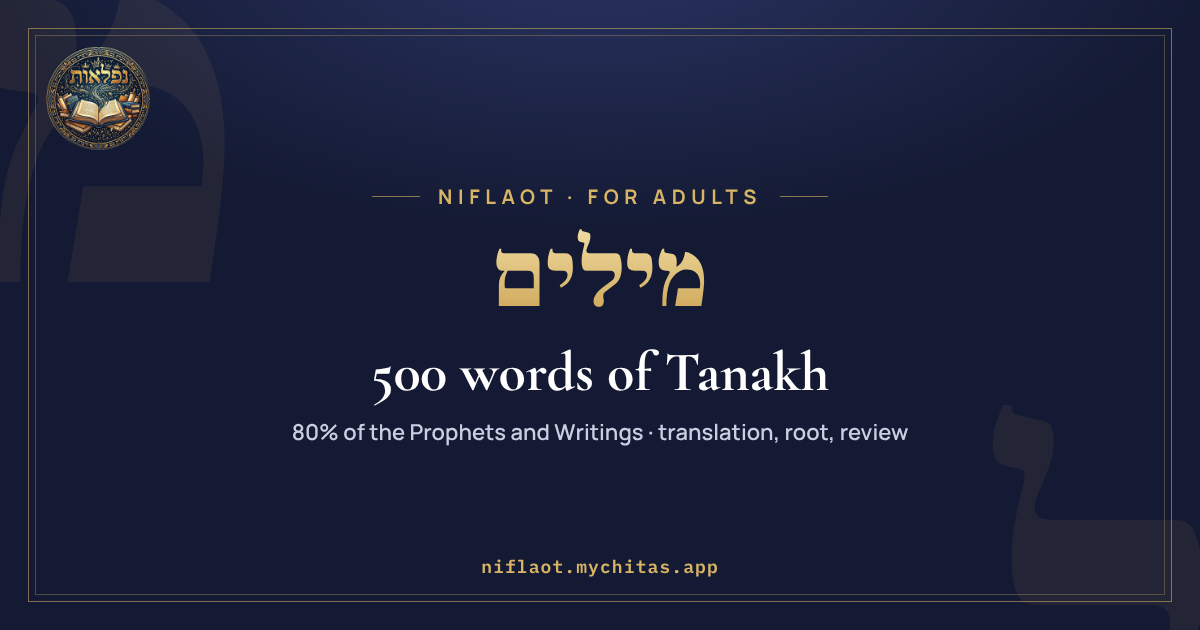
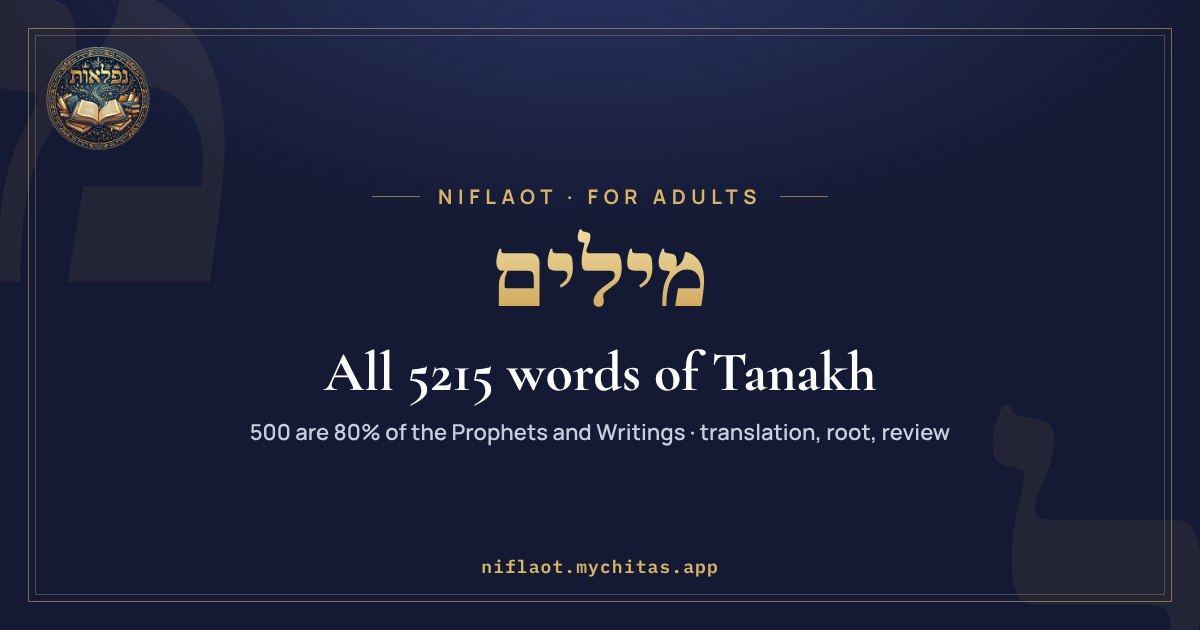
Страница «500 слов Танаха» → «Все 5215 слов Танаха»
Заголовок, описание, вехи (и все 5215 — весь текст, кроме имён), сертификат
«Раввин языка Танаха», все 5215 слов уровнями по 50 на ru/en/de; превью
og/hebrew-words.png; «Мои слова» — тот же текст о частотах.

Claude-Session: https://claude.ai/code/session_01QUacuH4gNi72Be9WgrZfX6

Changed region(s): [[0.2775, 0.5429, 0.74, 0.6333], [0.2158, 0.6635, 0.8017, 0.7238]]

diff --git a/src/i18n/locales/ru.ts b/src/i18n/locales/ru.ts
@@ -1309,7 +1309,7 @@ const ru = {
   'words.learn': "Учу",
   'words.toMine': "Мои слова — повторение и весь словарь",
   'words.mine': "Мои слова",
-  'words.mineLead': "Самые частые слова Пророков и Писаний: 500 слов — это 80 % текста, 1000 — почти 90 %, 1500 — 93 %, 2000 — 95 %, 2500 — 97 %, 3000 — 98 %. Отмечайте «Учу» или «Знаю», а сайт напомнит повторить каждое слово вовремя — через 1, 3, 7, 21 и 60 дней.",
+  'words.mineLead': "Все слова Пророков и Писаний, от самых частых: 500 слов — это 80 % текста, 1000 — почти 90 %, 2000 — 95 %, 3000 — 98 %, а все 5215 — весь текст, кроме имён. Отмечайте «Учу» или «Знаю», а сайт напомнит повторить каждое слово вовремя — через 1, 3, 7, 21 и 60 дней.",
   'words.statKnown': "знаю",
   'words.statLearn': "учу",
   'words.statDue': "повторить сегодня",
@@ -1411,13 +1411,14 @@ const ru = {
   'ai.s.wordsQuiz': "Проверь меня по моим словам",
   'ai.s.wordsRoot': "Какие слова из одного корня я уже знаю?",
   'ai.s.wordsTip': "Как лучше запоминать слова?",
-  'words.seoTitle': "500 слов Танаха — 80 % текста Пророков и Писаний",
-  'words.seoLead': "Самые частые слова Пророков и Писаний в основной форме — с переводом, корнем и тем, сколько раз каждое встречается. Выучите первые 500 — и вы будете узнавать 80 % слов текста.",
+  'words.seoTitle': "Все 5215 слов Танаха: 500 — уже 80 % текста Пророков и Писаний",
+  'words.seoLead': "Все слова Пророков и Писаний в основной форме — 5215 слов, от самых частых к самым редким, с переводом, корнем и тем, сколько раз каждое встречается. Первые 500 дают 80 % текста, а все 5215 — весь текст, кроме имён и названий мест.",
   'words.seoCov': "{n} самых частых слов — {p} % текста",
+  'words.seoAll': "все 5215 слов — весь текст, кроме имён и названий мест",
   'words.seoUpTo': "до {p} % текста",
-  'words.seoHow': "Как учить: по 5 слов в день вместе с отрывком дня Пророков и Писаний. Отмечайте «Учу» или «Знаю», а сайт предложит повторить каждое слово вовремя — через 1, 3, 7, 21 и 60 дней. За 100, 300, 500, 1000, 1500, 2000, 2500 и 3000 слов, подтверждённых повторением, Академия Нифлаот выдаёт сертификат. Бесплатно.",
+  'words.seoHow': "Как учить: по 5 слов в день вместе с отрывком дня Пророков и Писаний. Отмечайте «Учу» или «Знаю», а сайт предложит повторить каждое слово вовремя — через 1, 3, 7, 21 и 60 дней. За 100, 300, 500, 1000, 1500, 2000, 2500 и 3000 слов, подтверждённых повторением, Академия Нифлаот выдаёт сертификат, а за все 5215 — сертификат «Раввин языка Танаха». Бесплатно.",
   'words.seoStart': "Начать учить слова",
-  'words.seoShort': "500 слов Танаха",
+  'words.seoShort': "Все слова Танаха",
   'words.seoColWord': "Слово",
   'words.seoColTr': "Перевод",
   'words.seoColCount': "Сколько раз",

diff --git a/src/i18n/locales/de.ts b/src/i18n/locales/de.ts
@@ -1288,7 +1288,7 @@ const de: Messages = {
   'words.learn': "Lerne ich",
   'words.toMine': "Meine Wörter — Wiederholen und alle Wörter",
   'words.mine': "Meine Wörter",
-  'words.mineLead': "Die häufigsten Wörter der Propheten und Schriften: 500 Wörter sind 80 % des Textes, 1000 fast 90 %, 1500 sind 93 %, 2000 sind 95 %, 2500 sind 97 %, 3000 sind 98 %. Markiere „Lerne ich“ oder „Kenne ich“, und die Seite erinnert dich, jedes Wort zur richtigen Zeit zu wiederholen — nach 1, 3, 7, 21 und 60 Tagen.",
+  'words.mineLead': "Alle Wörter der Propheten und Schriften, die häufigsten zuerst: 500 Wörter sind 80 % des Textes, 1000 fast 90 %, 2000 sind 95 %, 3000 sind 98 %, alle 5215 der ganze Text außer Namen. Markiere „Lerne ich“ oder „Kenne ich“, und die Seite erinnert dich, jedes Wort zur richtigen Zeit zu wiederholen — nach 1, 3, 7, 21 und 60 Tagen.",
   'words.statKnown': "kenne ich",
   'words.statLearn': "lerne ich",
   'words.statDue': "heute wiederholen",
@@ -1390,13 +1390,14 @@ const de: Messages = {
   'ai.s.wordsQuiz': "Frag mich meine Wörter ab",
   'ai.s.wordsRoot': "Welche meiner Wörter haben dieselbe Wurzel?",
   'ai.s.wordsTip': "Wie merke ich mir Wörter besser?",
-  'words.seoTitle': "500 Wörter des Tanach — 80 % des Textes der Propheten und Schriften",
-  'words.seoLead': "Die häufigsten Wörter der Propheten und Schriften in ihrer Grundform — mit Übersetzung, Wurzel und wie oft jedes vorkommt. Lerne die ersten 500, und du erkennst 80 % der Wörter des Textes.",
+  'words.seoTitle': "Alle 5215 Wörter des Tanach — 500 sind 80 % des Textes",
+  'words.seoLead': "Alle Wörter der Propheten und Schriften in ihrer Grundform — 5215 Wörter, von den häufigsten bis zu den seltensten, mit Übersetzung, Wurzel und wie oft jedes vorkommt. Die ersten 500 sind 80 % des Textes, alle 5215 der ganze Text außer Namen von Personen und Orten.",
   'words.seoCov': "{n} häufigste Wörter — {p} % des Textes",
+  'words.seoAll': "alle 5215 Wörter — der ganze Text außer Namen von Personen und Orten",
   'words.seoUpTo': "bis {p} % des Textes",
-  'words.seoHow': "So lernst du: 5 Wörter am Tag, zusammen mit dem Abschnitt des Tages der Propheten und Schriften. Markiere „Lerne ich“ oder „Kenne ich“, und die Seite bietet dir jedes Wort zur richtigen Zeit zum Wiederholen an — nach 1, 3, 7, 21 und 60 Tagen. Für 100, 300, 500, 1000, 1500, 2000, 2500 und 3000 beim Wiederholen bestätigte Wörter gibt die Akademie Niflaot ein Zertifikat. Kostenlos.",
+  'words.seoHow': "So lernst du: 5 Wörter am Tag, zusammen mit dem Abschnitt des Tages der Propheten und Schriften. Markiere „Lerne ich“ oder „Kenne ich“, und die Seite bietet dir jedes Wort zur richtigen Zeit zum Wiederholen an — nach 1, 3, 7, 21 und 60 Tagen. Für 100, 300, 500, 1000, 1500, 2000, 2500 und 3000 beim Wiederholen bestätigte Wörter gibt die Akademie Niflaot ein Zertifikat, für alle 5215 das Zertifikat „Rabbi der Sprache des Tanach“. Kostenlos.",
   'words.seoStart': "Wörter lernen",
-  'words.seoShort': "500 Wörter des Tanach",
+  'words.seoShort': "Alle Wörter des Tanach",
   'words.seoColWord': "Wort",
   'words.seoColTr': "Übersetzung",
   'words.seoColCount': "Wie oft",

diff --git a/src/i18n/locales/en.ts b/src/i18n/locales/en.ts
@@ -1288,7 +1288,7 @@ const en: Messages = {
   'words.learn': "Learning",
   'words.toMine': "My words — review and the whole list",
   'words.mine': "My words",
-  'words.mineLead': "The most frequent words of the Prophets and Writings: 500 words are 80% of the text, 1000 almost 90%, 1500 are 93%, 2000 are 95%, 2500 are 97%, 3000 are 98%. Mark “Learning” or “I know it”, and the site will remind you to review each word at the right time — after 1, 3, 7, 21 and 60 days.",
+  'words.mineLead': "All the words of the Prophets and Writings, the most frequent first: 500 words are 80% of the text, 1000 almost 90%, 2000 are 95%, 3000 are 98%, and all 5215 are the whole text except names. Mark “Learning” or “I know it”, and the site will remind you to review each word at the right time — after 1, 3, 7, 21 and 60 days.",
   'words.statKnown': "known",
   'words.statLearn': "learning",
   'words.statDue': "to review today",
@@ -1390,13 +1390,14 @@ const en: Messages = {
   'ai.s.wordsQuiz': "Quiz me on my words",
   'ai.s.wordsRoot': "Which of my words share a root?",
   'ai.s.wordsTip': "How can I remember words better?",
-  'words.seoTitle': "500 words of Tanakh — 80% of the text of the Prophets and Writings",
-  'words.seoLead': "The most frequent words of the Prophets and Writings in their base form — with the translation, the root and how often each one occurs. Learn the first 500 and you will recognize 80% of the words of the text.",
+  'words.seoTitle': "All 5215 words of Tanakh — 500 are 80% of the text",
+  'words.seoLead': "All the words of the Prophets and Writings in their base form — 5215 words, from the most frequent to the rarest, with the translation, the root and how often each one occurs. The first 500 cover 80% of the text, and all 5215 cover the whole text except names of people and places.",
   'words.seoCov': "{n} most frequent words — {p}% of the text",
+  'words.seoAll': "all 5215 words — the whole text except names of people and places",
   'words.seoUpTo': "up to {p}% of the text",
-  'words.seoHow': "How to learn: 5 words a day together with the passage of the day of the Prophets and Writings. Mark “Learning” or “I know it”, and the site will offer each word for review at the right time — after 1, 3, 7, 21 and 60 days. For 100, 300, 500, 1000, 1500, 2000, 2500 and 3000 words confirmed by the review, the Niflaot Academy gives a certificate. Free.",
+  'words.seoHow': "How to learn: 5 words a day together with the passage of the day of the Prophets and Writings. Mark “Learning” or “I know it”, and the site will offer each word for review at the right time — after 1, 3, 7, 21 and 60 days. For 100, 300, 500, 1000, 1500, 2000, 2500 and 3000 words confirmed by the review, the Niflaot Academy gives a certificate, and for all 5215 the certificate “Rabbi of the Language of Tanakh”. Free.",
   'words.seoStart': "Start learning the words",
-  'words.seoShort': "500 words of Tanakh",
+  'words.seoShort': "All words of Tanakh",
   'words.seoColWord': "Word",
   'words.seoColTr': "Translation",
   'words.seoColCount': "Times",

diff --git a/scripts/prerender.ts b/scripts/prerender.ts
@@ -695,8 +695,8 @@ function tanakhPage(section: Section, lang: 'ru' | 'en' | 'de', ui: Ui): Page {
 }
 
 /**
- * «500 слов Танаха» for search: the most frequent words of the Prophets and Writings (src/core/words.ts) — how much of
- * the text 100 / 300 / 500 words cover, and every translated word by levels of 50: form, translation, root, how often.
+ * «Все слова Танаха» (/hebrew-words/) for search: all the words of the Prophets and Writings (src/core/words.ts) — how much of
+ * the text 100 / 300 / 500 … words cover, and all 5215 words by levels of 50: form, translation, root, how often.
  * The app opens «Мои слова» (the review). The source (Open Scriptures Hebrew Bible, CC BY 4.0) is credited.
  */
 const WORDS = wordsJson as { words: { id: string; he: string; n: number; root?: string; cov: number }[] };
@@ -708,7 +708,7 @@ function wordsPage(lang: 'ru' | 'en' | 'de', ui: Ui): Page {
   const learn = WORDS.words.filter((w) => tr[w.id]);
   const fill = (key: string, vars: Record<string, string | number>) => s(ui, key as keyof Ui).replace(/\{(\w+)\}/g, (_, k) => String(vars[k] ?? ''));
   const pctAt = (n: number) => Math.round(WORDS.words[n - 1].cov);
-  const cov = [100, 300, 500, 1000, 1500, 2000, 2500, 3000].map((n) => `<li>${esc(fill('words.seoCov', { n, p: pctAt(n) }))}</li>`).join('');
+  const cov = [100, 300, 500, 1000, 1500, 2000, 2500, 3000].map((n) => `<li>${esc(fill('words.seoCov', { n, p: pctAt(n) }))}</li>`).join('') + `<li>${esc(s(ui, 'words.seoAll'))}</li>`;
   const levels: string[] = [];
   for (let i = 0; i < learn.length; i += 50) {
     const ws = learn.slice(i, i + 50);

diff --git a/src/core/site.ts b/src/core/site.ts
@@ -26,7 +26,7 @@ export const STATIC_PAGES: Record<StaticPage, string> = {
   // «Пророки» / «Писания»: the three-year reading plan; the app opens today's passage
   neviim: 'neviim',
   ketuvim: 'ketuvim',
-  // «500 слов Танаха»: the most frequent words of the Prophets and Writings; the app opens «Мои слова»
+  // «Все слова Танаха» (5215): all the words of the Prophets and Writings; the app opens «Мои слова»
   'hebrew-words': 'words',
   // «Хасидут»: the app opens today's passage; «Викторина вместе»: the start page of the quiz
   hemshech: 'hemshech',

diff --git a/scripts/og-images.ts b/scripts/og-images.ts
@@ -173,8 +173,8 @@ const shots: [string, string][] = [
     page({
       eyebrow: 'Niflaot · for adults',
       he: 'מילים',
-      title: '500 words of Tanakh',
-      sub: '80% of the Prophets and Writings · translation, root, review',
+      title: 'All 5215 words of Tanakh',
+      sub: '500 are 80% of the Prophets and Writings · translation, root, review',
       letters: ['מ', 'ל'],
     }),
   ],

diff --git a/CLAUDE.md b/CLAUDE.md
@@ -303,7 +303,7 @@
   в localStorage. Вход — лента (пункт меню «Знаете ли вы?»), плитка на главной, карточка в «Устном счёте».
   Слова проверяет `npm run check`.
 - Страницы для поиска (`scripts/prerender.ts`; ещё `/neviim/`, `/ketuvim/` — см. «Пророки и Писания»): «Ментальная арифметика» `/mental-math/`, «Гематрия дня» `/daily/`,
-  «Знаете ли вы?» `/facts/` (все загадки ленты, ответ свёрнут, ссылка на урок), «Еврейский алфавит за 5 минут» `/letters/`, «Теґилим онлайн» `/tehillim/` (см. «Святое чтение»), «500 слов Танаха» `/hebrew-words/` (см. «Слова отрывка») и «Учить иврит — язык Торы и Пророков» `/learn-hebrew/`
+  «Знаете ли вы?» `/facts/` (все загадки ленты, ответ свёрнут, ссылка на урок), «Еврейский алфавит за 5 минут» `/letters/`, «Теґилим онлайн» `/tehillim/` (см. «Святое чтение»), «Все 5215 слов Танаха» `/hebrew-words/` (см. «Слова отрывка») и «Учить иврит — язык Торы и Пророков» `/learn-hebrew/`
   (таблица букв: вид, название, звучание, число; похожие буквы); на других языках — `/en/…`, `/de/…` (hreflang; язык из
   пути читает `src/i18n/index.tsx`, страница в корне — всегда русская); открывают `#/math/add`, `#/daily`, `#/facts`,
   `#/letters` (`STATIC_PAGES` в `src/core/site.ts`). Тексты — ключи `math.seo*`, `daily.seo*`, `facts.seo*`, `abc.seo*`;
@@ -466,8 +466,9 @@
 - **ИИ-учитель:** на `#/words` — `setOtherPage({kind: 'words'})`, `wordsContext` (слова к повторению, учу, знаю — с переводом
   и корнем; проверять: сначала иврит, перевод — после ответа); подсказки `ai.s.words*`; в `SYSTEM` — «Hebrew of Tanakh».
 - **Страница для поиска** `/hebrew-words/` (и `/en/…`, `/de/…`, hreflang; `wordsPage` в `scripts/prerender.ts`,
-  `STATIC_PAGES['hebrew-words']` → приложение открывает `#/words`): «500 слов Танаха — 80 % текста Пророков и Писаний» —
-  сколько текста дают 100 / 300 / 500 / 1000 / 1500 / 2000 / 2500 / 3000 слов, как учить, и все переведённые слова (3000) уровнями по 50 (№, слово, перевод,
+  `STATIC_PAGES['hebrew-words']` → приложение открывает `#/words`): «Все 5215 слов Танаха: 500 — уже 80 % текста Пророков и Писаний»
+  (09.11.2026, владелец: «обнови страницу до 5215»; ссылки на неё — «Все слова Танаха», `words.seoShort`) —
+  сколько текста дают 100 / 300 / 500 / 1000 / 1500 / 2000 / 2500 / 3000 слов и все 5215 (`words.seoAll`), как учить, сертификаты (и «Раввин языка Танаха»), и все слова словаря (5215) уровнями по 50 (№, слово, перевод,
   корень, сколько раз); подпись источника (OSHB, CC BY 4.0). Тексты — `words.seo*`, превью `og/hebrew-words.png`
   (`scripts/og-images.ts`); ссылки — со статической главной и со страниц `/neviim/`, `/ketuvim/`.
 - **Детям — «Слова Торы»** (`#/torah-words[/<глава>]`, `TorahWordsPage.tsx`, логика — `src/core/torahWords.ts`; меню детей —

diff --git a/README.md b/README.md
@@ -124,7 +124,7 @@
   словарям; корни — по словарю Брауна — Драйвера — Бриггса с фильтром. Леммы — Open Scriptures Hebrew Bible (CC BY 4.0).
 - Детям — **«Слова Торы»**: колода сама собирается из уроков (слова Memo и карточек загадок), игра на 10 вопросов,
   звёздочки, сертификат «Знаток слов главы».
-- Страница для поиска [/hebrew-words/](https://niflaot.mychitas.app/hebrew-words/) — «500 слов Танаха — 80 % текста».
+- Страница для поиска [/hebrew-words/](https://niflaot.mychitas.app/hebrew-words/) — «Все 5215 слов Танаха: 500 — уже 80 % текста».
 
 ## «Святой язык — уроки»: учить иврит — язык Торы и язык Пророков
 
